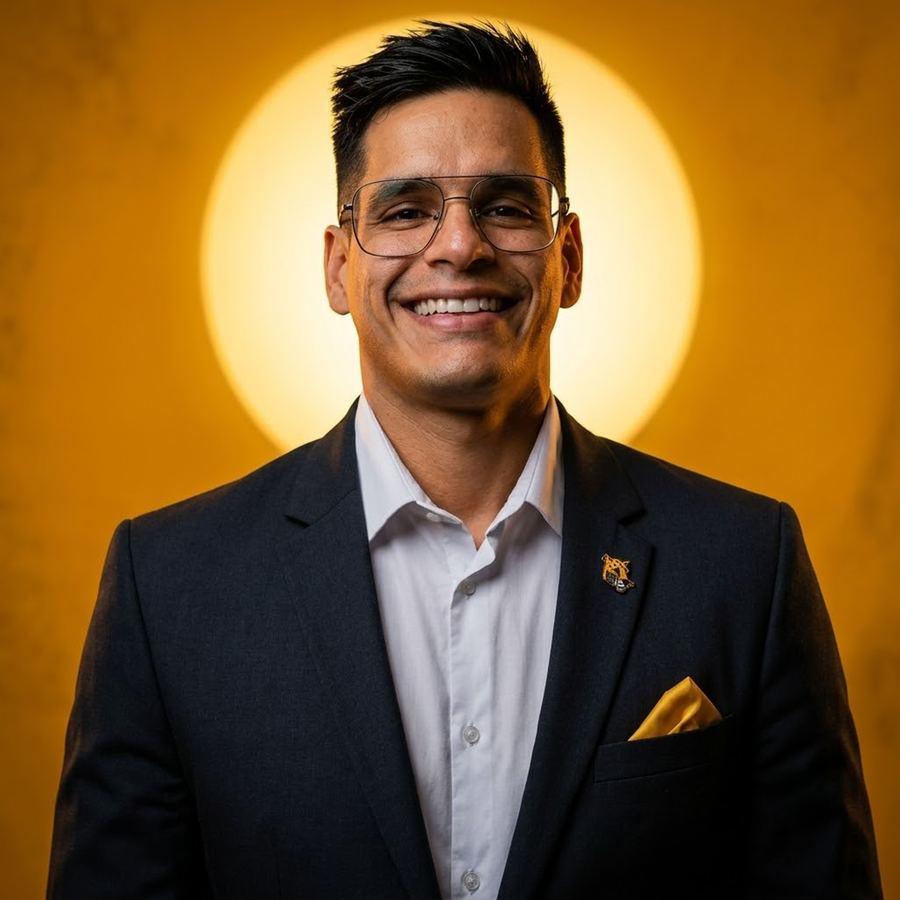
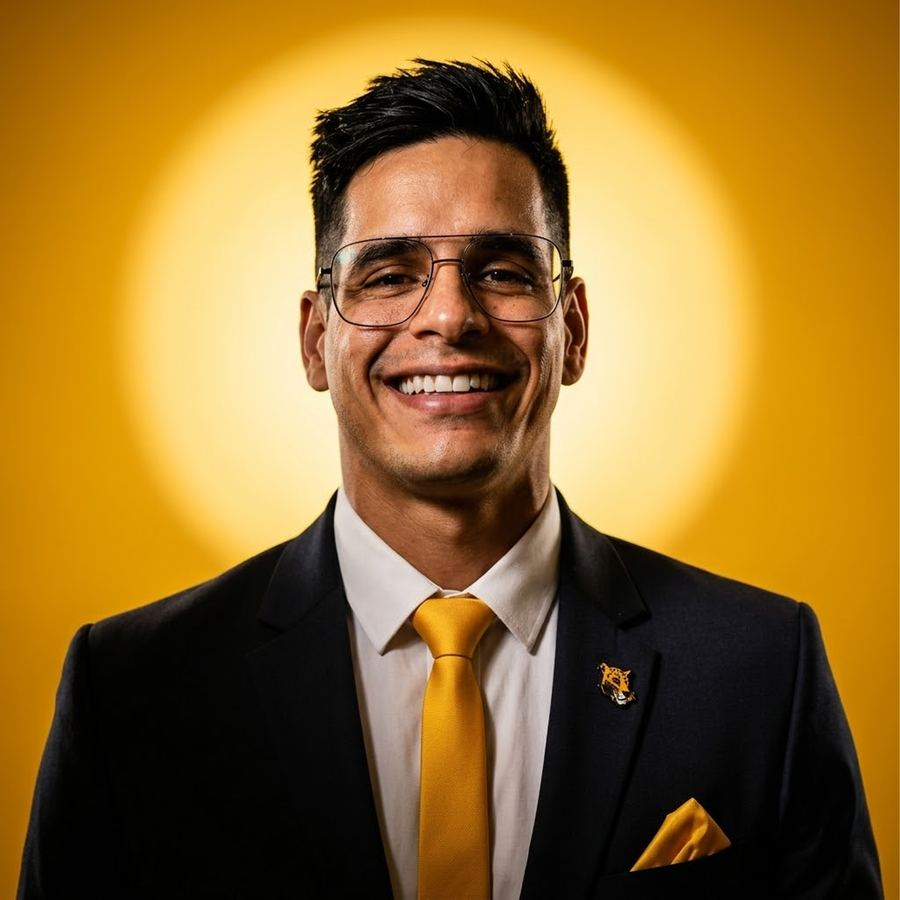
Atualiza nome exibido para Prof. Yan Gaudard e troca a foto

diff --git a/candidato-template.html b/candidato-template.html
@@ -296,7 +296,7 @@ const CANDIDATOS = [
     bio: "Matheus Zozoloto, servidor público efetivo com atuação no Norte Pioneiro, especialmente Bandeirantes, Jacarezinho e Ibaiti. Defende crianças, adolescentes, idosos, trabalhadores do campo e da indústria, profissionalização, geração de renda e desenvolvimento regional."
   },
   {
-    id: "yan-gaudard", nome: "Yan Gaudard", cargo: "federal",
+    id: "yan-gaudard", nome: "Prof. Yan Gaudard", cargo: "federal",
     cargoLabel: "Deputado Federal", cidade: "Paranaguá, PR", foto: "assets/candidatos/yan-gaudard.jpg",
     instagram: "https://www.instagram.com/profyangaudard",
     facebook: "https://facebook.com/profyangaudard", tiktok: "https://www.tiktok.com/@profyangaudard", youtube: "https://youtube.com/@profyangaudard",

diff --git a/candidatos-data.js b/candidatos-data.js
@@ -176,7 +176,7 @@ const CANDIDATOS = [
     bio: "Matheus Zozoloto, servidor público efetivo com atuação no Norte Pioneiro, especialmente Bandeirantes, Jacarezinho e Ibaiti. Defende crianças, adolescentes, idosos, trabalhadores do campo e da indústria, profissionalização, geração de renda e desenvolvimento regional."
   },
   {
-    id: "yan-gaudard", nome: "Yan Gaudard", cargo: "federal",
+    id: "yan-gaudard", nome: "Prof. Yan Gaudard", cargo: "federal",
     cargoLabel: "Deputado Federal", cidade: "Paranaguá, PR", foto: "assets/candidatos/yan-gaudard.jpg",
     instagram: "https://www.instagram.com/profyangaudard",
     facebook: "https://facebook.com/profyangaudard", tiktok: "https://www.tiktok.com/@profyangaudard", youtube: "https://youtube.com/@profyangaudard",

diff --git a/candidatos.html b/candidatos.html
@@ -383,7 +383,7 @@ const CANDIDATOS = [
     bio: "Matheus Zozoloto, servidor público efetivo com atuação no Norte Pioneiro, especialmente Bandeirantes, Jacarezinho e Ibaiti. Defende crianças, adolescentes, idosos, trabalhadores do campo e da indústria, profissionalização, geração de renda e desenvolvimento regional."
   },
   {
-    id: "yan-gaudard", nome: "Yan Gaudard", cargo: "federal",
+    id: "yan-gaudard", nome: "Prof. Yan Gaudard", cargo: "federal",
     cargoLabel: "Deputado Federal", cidade: "Paranaguá, PR", foto: "assets/candidatos/yan-gaudard.jpg",
     instagram: "https://www.instagram.com/profyangaudard",
     facebook: "https://facebook.com/profyangaudard", tiktok: "https://www.tiktok.com/@profyangaudard", youtube: "https://youtube.com/@profyangaudard",